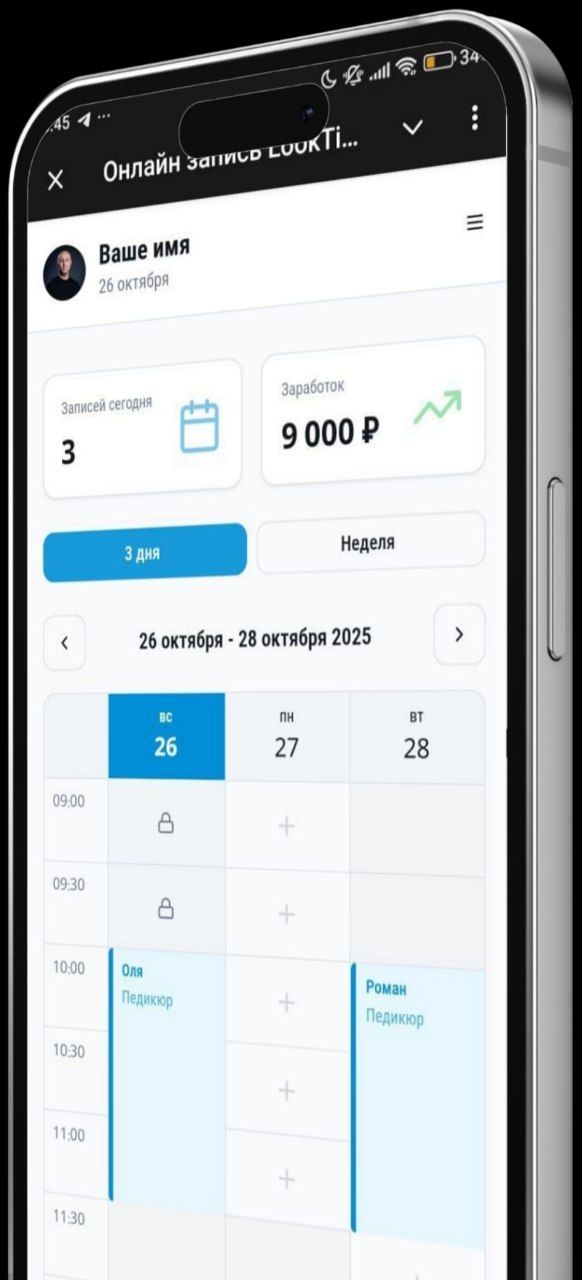
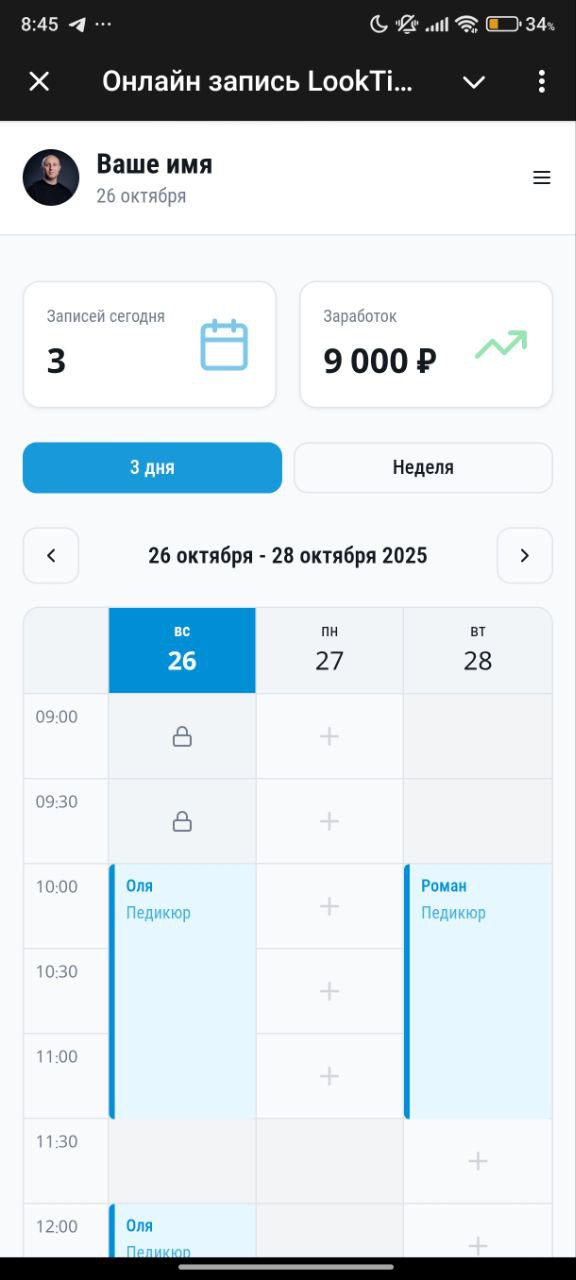
Update landing page image

diff --git a/src/pages/Index.tsx b/src/pages/Index.tsx
@@ -108,7 +108,7 @@ const Index = () => {
                   <img 
                     src={dashboardMockup} 
                     alt="Личный кабинет владельца" 
-                    className="w-full h-full object-cover"
+                    className="w-full h-full object-cover object-top"
                     loading="eager"
                     decoding="async"
                   />
